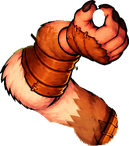
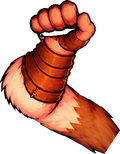
T026 r2: re-import A022 (grips merged, hands under the bracers, item slots behind the fist, bow/pinch re-aimed), tail-root check on the drawn root end, review images; build t026 rat a022 v2

diff --git a/src/data/rigs/rat-raider.js b/src/data/rigs/rat-raider.js
@@ -24,12 +24,12 @@ import { OVERLAYS, VIEWS, MASKS } from './rat-raider-gear.js';
 
 const P = 'assets/art/enemies/rat-raider/rig/';
 const HANDS = {
-  'hand-near-grip': { part: 'hand-near', at: [54.8, 51.6], axis: -45.0 },
-  'hand-near-grip-overhand': { part: 'hand-near', at: [45.6, 54.8], axis: 0.0 },
-  'hand-near-pinch': { part: 'hand-near', at: [45.6, 59.2], axis: -45.0 },
-  'hand-far-grip': { part: 'hand-far', at: [60.0, 52.0], axis: -45.0 },
-  'hand-far-grip-overhand': { part: 'hand-far', at: [51.6, 55.6], axis: 0.0 },
-  'hand-far-shield': { part: 'hand-far', at: [51.6, 60.4], axis: 0.0 },
+  'hand-near-grip': { part: 'hand-near', at: [44.96, 26.14], axis: -16.0 },
+  'hand-near-grip-overhand': { part: 'hand-near', at: [50.6, 39.72], axis: -95.0 },
+  'hand-near-pinch': { part: 'hand-near', at: [51.02, 59.06], axis: -100.0 },
+  'hand-far-grip': { part: 'hand-far', at: [45.42, 47.42], axis: 85.0 },
+  'hand-far-grip-overhand': { part: 'hand-far', at: [48.9, 44.8], axis: -5.0 },
+  'hand-far-shield': { part: 'hand-far', at: [54.02, 47.01], axis: -5.0 },
 };
 const AX = HANDS['hand-near-grip'].axis, SLOT = HANDS['hand-near-grip'].at, RING = HANDS['hand-far-grip'].at;
 const OVER = HANDS['hand-far-grip-overhand'], PINCH = HANDS['hand-near-pinch'].at;
@@ -38,6 +38,10 @@ const EAR = [132, 198];      // full draw: string to the jaw line, under the che
 export const HIDDEN_GEAR = ['gear-jerkin', 'gear-sash', 'gear-quiver'];
 const views = Object.fromEntries(Object.entries(VIEWS).filter(([g]) => !HIDDEN_GEAR.includes(g)));
 const masks = Object.fromEntries(Object.entries(MASKS).filter(([img]) => !img.endsWith('head-neutral.png') && /\/rig\/head[^/]*\.png$|\/gear\/gear-(hood|helmet|captain)/.test(img)));
+// T026 r2: A022 cleaned the back head's islands, so its cut starts 27.6 px further in: its fur mask cropped to match
+// (the A010 viewer rig keeps the original)
+const BACK = P + 'head-back.png';
+masks[BACK] = { ...masks[BACK], fur: 'assets/art/enemies/rat-raider/masks/head-back-a022-fur-mask.png' };
 
 export default {
   id: 'rat-raider',
@@ -47,11 +51,13 @@ export default {
   hands: HANDS,
   heldHand: { 'hand-near': 'hand-near-grip' },
   slots: {
-    'one-hand': { parent: 'hand-near', attach: SLOT, order: 830 },   // T026: no flip: on A018's grip the curved edge already faces back
-    'two-hand': { parent: 'hand-near', attach: SLOT, order: 830 },
-    bow: { parent: 'hand-far', attach: RING, order: 125 },
+    // T026 r2: A022's hands sit under their bracers (815 / 115), so the held item goes just behind the fist (812 / 112)
+    'one-hand': { parent: 'hand-near', attach: SLOT, order: 812 },   // T026: no flip: on the grip the curved edge already faces back
+    'two-hand': { parent: 'hand-near', attach: SLOT, order: 812 },
+    bow: { parent: 'hand-far', attach: RING, order: 112 },
   },
-  axes: { 'one-hand': AX, 'two-hand': AX, bow: HANDS['hand-far-grip'].axis },
+  // T026 r2: A022 measured the far grip's slot pointing down the fist (85); the bow's top limb goes out the other end
+  axes: { 'one-hand': AX, 'two-hand': AX, bow: HANDS['hand-far-grip'].axis - 180 },
   grips: {
     'two-hand': { swap: { 'hand-far': 'hand-far-grip-overhand' }, align: OVER.axis, order: { 'hand-far': 845 }, wrist: 'above',
       ik: { arm: ['arm-far-upper', 'arm-far-lower'], end: 'hand-far', hand: OVER.at, to: 'grip2' } },
@@ -60,28 +66,28 @@ export default {
   },
   // A018's own sockets (rig-source `sockets`; importer compared them with its derived ones: chest 49 and mouth 114
   // canvas px apart, the rest within 9); feet, weapon_tip: render/sockets.js
-  sockets: { hand_near: { part: 'hand-near', at: [54.8, 51.6] }, hand_far: { part: 'hand-far', at: [60.0, 52.0] }, chest: { part: 'torso', at: [122.0, 108.0] }, head_top: { part: 'head', at: [80.0, 0.8] }, mouth: { part: 'head', at: [276.0, 204.0] }, tail_tip: { part: 'tail-3', at: [4.4, 4.0] }, feet: { parts: ['foot-near', 'foot-far'] }, weapon_tip: { item: 'tip' } },
+  sockets: { hand_near: { part: 'hand-near', at: [45.0, 26.1] }, hand_far: { part: 'hand-far', at: [45.4, 47.4] }, chest: { part: 'torso', at: [132.0, 101.6] }, head_top: { part: 'head', at: [80.0, 0.8] }, mouth: { part: 'head', at: [276.0, 204.0] }, tail_tip: { part: 'tail-3', at: [4.4, 4.0] }, feet: { parts: ['foot-near', 'foot-far'] }, weapon_tip: { item: 'tip' } },
   parts: {
-    'pelvis': { img: P + 'pelvis.png', pivot: [123.2, 62.0], order: 400 },
-    'torso': { img: P + 'torso.png', parent: 'pelvis', attach: [124.0, 30.8], pivot: [116.4, 156.8], order: 600, swaps: { 'torso-side': { img: P + 'torso-side.png', offset: [31.6, -1.6] }, 'torso-back': { img: P + 'torso-back.png', offset: [2.0, 11.6] } } },
-    'head': { img: P + 'head.png', parent: 'torso', attach: [158.0, 84.0], pivot: [152.0, 240.0], order: 700, swaps: { 'head-attack': { img: P + 'head-attack.png', offset: [-2.0, 0.0] }, 'head-hurt': { img: P + 'head-hurt.png', offset: [-3.2, 0.0] }, 'head-effort': { img: P + 'head-effort.png', offset: [2.0, 0.4] }, 'head-ko': { img: P + 'head-ko.png', offset: [1.6, 0.0] }, 'head-back': { img: P + 'head-back.png', offset: [0.4, 16.0] } } },
-    'arm-near-upper': { img: P + 'arm-near-upper.png', parent: 'torso', attach: [28.0, 73.6], pivot: [68.4, 52.0], order: 590, swaps: { 'arm-near-cocked': { img: P + 'arm-near-cocked.png', offset: [-27.2, -70.8], hide: ['arm-near-lower', 'hand-near'], grip: [97.2, 20.4], axis: -135.0,
-        carry: { held: [97.2, 20.4] }, turn: { held: -135.0 - AX } }, 'arm-near-raised': { img: P + 'arm-near-raised.png', offset: [31.2, -136.4], hide: ['arm-near-lower', 'hand-near'], grip: [20.4, 32.0], axis: 135.0,
+    'pelvis': { img: P + 'pelvis.png', pivot: [106.0, 62.0], order: 400 },
+    'torso': { img: P + 'torso.png', parent: 'pelvis', attach: [106.8, 30.8], pivot: [126.4, 150.4], order: 600, swaps: { 'torso-side': { img: P + 'torso-side.png', offset: [41.6, -8.0] }, 'torso-back': { img: P + 'torso-back.png', offset: [12.0, 5.2] } } },
+    'head': { img: P + 'head.png', parent: 'torso', attach: [168.0, 77.6], pivot: [152.0, 240.0], order: 700, swaps: { 'head-attack': { img: P + 'head-attack.png', offset: [-2.0, 0.0] }, 'head-hurt': { img: P + 'head-hurt.png', offset: [-3.2, 0.0] }, 'head-effort': { img: P + 'head-effort.png', offset: [2.0, 0.4] }, 'head-ko': { img: P + 'head-ko.png', offset: [1.6, 0.0] }, 'head-back': { img: P + 'head-back.png', offset: [28.0, 16.0] } } },
+    'arm-near-upper': { img: P + 'arm-near-upper.png', parent: 'torso', attach: [38.0, 67.2], pivot: [68.4, 21.6], order: 590, swaps: { 'arm-near-cocked': { img: P + 'arm-near-cocked.png', offset: [-27.2, -110.4], hide: ['arm-near-lower', 'hand-near'], grip: [61.29, 32.36], axis: 175.2,
+        carry: { held: [61.29, 32.36] }, turn: { held: 175.2 - AX } }, 'arm-near-raised': { img: P + 'arm-near-raised.png', offset: [24.0, -145.2], hide: ['arm-near-lower', 'hand-near'], grip: [33.53, 32.12], axis: 144.5,
         carry: { held: [20.4, 32.0] }, turn: { held: 135.0 - AX } } } },
-    'arm-near-lower': { img: P + 'arm-near-lower.png', parent: 'arm-near-upper', attach: [25.2, 106.4], pivot: [74.4, 24.8], order: 820 },
-    'hand-near': { img: P + 'hand-near.png', parent: 'arm-near-lower', attach: [56.0, 76.8], pivot: [38.0, 20.0], order: 840, swaps: { 'hand-near-fist': { img: P + 'hand-near-fist.png', offset: [0.0, 0.0] }, 'hand-near-open': { img: P + 'hand-near-open.png', offset: [-0.4, 0.0] }, 'hand-near-grip': { img: P + 'hand-near-grip.png', offset: [9.6, 0.0] }, 'hand-near-grip-overhand': { img: P + 'hand-near-grip-overhand.png', offset: [10.0, 0.0] }, 'hand-near-pinch': { img: P + 'hand-near-pinch.png', offset: [10.8, 0.0] } } },
-    'arm-far-upper': { img: P + 'arm-far-upper.png', parent: 'torso', attach: [190.0, 75.6], pivot: [39.2, 19.6], order: 110, swaps: { 'arm-far-raised-back': { img: P + 'arm-far-raised-back.png', offset: [-47.6, -76.4], hide: ['arm-far-lower', 'hand-far'], grip: [88.58, 19.62], axis: -115.0 }, 'arm-far-guard': { img: P + 'arm-far-guard.png', offset: [-12.4, -24.0], hide: ['arm-far-lower', 'hand-far'], grip: [31.76, 25.07], axis: -150.0 } } },
-    'arm-far-lower': { img: P + 'arm-far-lower.png', parent: 'arm-far-upper', attach: [70.4, 79.6], pivot: [23.2, 22.8], order: 120 },
-    'hand-far': { img: P + 'hand-far.png', parent: 'arm-far-lower', attach: [50.8, 71.6], pivot: [44.4, 19.6], order: 130, swaps: { 'hand-far-fist': { img: P + 'hand-far-fist.png', offset: [0.0, 0.0] }, 'hand-far-open': { img: P + 'hand-far-open.png', offset: [8.8, 0.0] }, 'hand-far-grip': { img: P + 'hand-far-grip.png', offset: [18.8, 0.0] }, 'hand-far-grip-overhand': { img: P + 'hand-far-grip-overhand.png', offset: [17.6, 0.0] }, 'hand-far-shield': { img: P + 'hand-far-shield.png', offset: [18.4, 0.0] } } },
-    'leg-near-upper': { img: P + 'leg-near-upper.png', parent: 'pelvis', attach: [68.8, 86.0], pivot: [71.2, 32.0], order: 510, swaps: { 'leg-near-kneeling': { img: P + 'leg-near-kneeling.png', offset: [-88.0, 0.0], hide: ['leg-near-lower', 'foot-near'] }, 'leg-near-kneeup': { img: P + 'leg-near-kneeup.png', offset: [38.0, -38.4], hide: ['leg-near-lower', 'foot-near'] } } },
+    'arm-near-lower': { img: P + 'arm-near-lower.png', parent: 'arm-near-upper', attach: [25.2, 76.0], pivot: [41.2, 24.8], order: 820 },
+    'hand-near': { img: P + 'hand-near.png', parent: 'arm-near-lower', attach: [22.8, 76.8], pivot: [38.0, 13.2], order: 815, swaps: { 'hand-near-fist': { img: P + 'hand-near-fist.png', offset: [0.0, 0.0] }, 'hand-near-open': { img: P + 'hand-near-open.png', offset: [11.6, 8.8] }, 'hand-near-grip': { img: P + 'hand-near-grip.png', offset: [11.2, 5.6] }, 'hand-near-grip-overhand': { img: P + 'hand-near-grip-overhand.png', offset: [16.8, 9.2] }, 'hand-near-pinch': { img: P + 'hand-near-pinch.png', offset: [18.0, 6.4] } } },
+    'arm-far-upper': { img: P + 'arm-far-upper.png', parent: 'torso', attach: [200.0, 69.2], pivot: [16.0, 16.4], order: 110, swaps: { 'arm-far-raised-back': { img: P + 'arm-far-raised-back.png', offset: [-70.8, -110.4], hide: ['arm-far-lower', 'hand-far'], grip: [75.74, 24.29], axis: -33.1 }, 'arm-far-guard': { img: P + 'arm-far-guard.png', offset: [-74.4, -4.4], hide: ['arm-far-lower', 'hand-far'], grip: [18.75, 23.8], axis: 145.2 } } },
+    'arm-far-lower': { img: P + 'arm-far-lower.png', parent: 'arm-far-upper', attach: [47.2, 76.4], pivot: [23.2, 22.8], order: 120 },
+    'hand-far': { img: P + 'hand-far.png', parent: 'arm-far-lower', attach: [50.8, 71.6], pivot: [30.0, 13.2], order: 115, swaps: { 'hand-far-fist': { img: P + 'hand-far-fist.png', offset: [0.0, 0.0] }, 'hand-far-open': { img: P + 'hand-far-open.png', offset: [10.8, 8.0] }, 'hand-far-grip': { img: P + 'hand-far-grip.png', offset: [12.4, 4.4] }, 'hand-far-grip-overhand': { img: P + 'hand-far-grip-overhand.png', offset: [14.4, 5.2] }, 'hand-far-shield': { img: P + 'hand-far-shield.png', offset: [12.8, 4.0] } } },
+    'leg-near-upper': { img: P + 'leg-near-upper.png', parent: 'pelvis', attach: [51.6, 86.0], pivot: [71.2, 32.0], order: 510, swaps: { 'leg-near-kneeling': { img: P + 'leg-near-kneeling.png', offset: [-88.0, 0.0], hide: ['leg-near-lower', 'foot-near'] }, 'leg-near-kneeup': { img: P + 'leg-near-kneeup.png', offset: [38.0, -38.4], hide: ['leg-near-lower', 'foot-near'] } } },
     'leg-near-lower': { img: P + 'leg-near-lower.png', parent: 'leg-near-upper', attach: [49.6, 122.0], pivot: [35.6, 23.6], order: 520 },
     'foot-near': { img: P + 'foot-near.png', parent: 'leg-near-lower', attach: [27.2, 66.8], pivot: [31.6, 20.0], order: 530, swaps: { 'foot-near-toe': { img: P + 'foot-near-toe.png', offset: [-5.2, -1.2] } } },
-    'leg-far-upper': { img: P + 'leg-far-upper.png', parent: 'pelvis', attach: [173.2, 86.0], pivot: [47.2, 47.2], order: 210, swaps: { 'leg-far-folded': { img: P + 'leg-far-folded.png', offset: [16.4, 16.0], hide: ['leg-far-lower', 'foot-far'] } } },
-    'leg-far-lower': { img: P + 'leg-far-lower.png', parent: 'leg-far-upper', attach: [54.4, 137.2], pivot: [50.0, 23.6], order: 220 },
-    'foot-far': { img: P + 'foot-far.png', parent: 'leg-far-lower', attach: [50.0, 74.8], pivot: [33.6, 20.4], order: 230, swaps: { 'foot-far-toe': { img: P + 'foot-far-toe.png', offset: [-2.0, -1.2] } } },
-    'tail': { img: P + 'tail.png', parent: 'pelvis', attach: [10.4, 94.0], pivot: [34.4, 14.0], order: 300 },
-    'tail-2': { img: P + 'tail-2.png', parent: 'tail', attach: [14.4, 81.2], pivot: [58.8, 16.0], order: 310 },
+    'leg-far-upper': { img: P + 'leg-far-upper.png', parent: 'pelvis', attach: [156.0, 86.0], pivot: [47.2, 47.2], order: 210, swaps: { 'leg-far-folded': { img: P + 'leg-far-folded.png', offset: [16.4, 16.0], hide: ['leg-far-lower', 'foot-far'] } } },
+    'leg-far-lower': { img: P + 'leg-far-lower.png', parent: 'leg-far-upper', attach: [54.4, 137.2], pivot: [31.2, 23.6], order: 220 },
+    'foot-far': { img: P + 'foot-far.png', parent: 'leg-far-lower', attach: [31.2, 74.8], pivot: [33.6, 20.4], order: 230, swaps: { 'foot-far-toe': { img: P + 'foot-far-toe.png', offset: [-2.0, -1.2] } } },
+    'tail': { img: P + 'tail.png', parent: 'pelvis', attach: [-6.8, 94.0], pivot: [34.4, 30.8], order: 300 },
+    'tail-2': { img: P + 'tail-2.png', parent: 'tail', attach: [14.4, 98.0], pivot: [58.8, 16.0], order: 310 },
     'tail-3': { img: P + 'tail-3.png', parent: 'tail-2', attach: [22.0, 66.8], pivot: [48.0, 41.2], order: 320 },
-    'scarf-tail': { img: P + 'scarf-tail.png', parent: 'torso', attach: [10.0, 16.0], pivot: [96.0, 23.6], order: 330 },
+    'scarf-tail': { img: P + 'scarf-tail.png', parent: 'torso', attach: [20.0, 9.6], pivot: [96.0, 23.6], order: 330 },
   },
 };

diff --git a/tools/bench/stretch-known.js b/tools/bench/stretch-known.js
@@ -6,20 +6,38 @@ const KNEE_CAP = 'patch cap / rounded end on the lower leg across the knee';
 const SHOULDER = 'round the top of arm-near-upper (A013 cut it straight: the torso hides it at rest, but every pose that draws the arm over the tunic shows the cut)';
 const TURNED = 'hand-<side>-grip-overhand drawing (T025: the grip fist turned over on the weapon node opens the wrist; the overhand hand has its own cuff)';
 const FAR_WRIST = 'as the current grip: rounded wrist end on hand-far-grip (the far fist turned hard round the shaft)';
-const RAT_WRIST = 'A018 grip / pinch hands (repainted from the fist) start ~24 source px past the fist\'s wrist line: extend their wrist end under the forearm cuff to the wrist pivot, as hand-near-fist does';
-const TAIL_ROOT = 'A022: tail-1 root tucked under the trouser seat on pelvis (its root sits ~27 px of stored art outside the pelvis drawing; only the near thigh hides it at rest, so it opens in the walk)';
+const RAT_SHOULDER = 'A022 near upper arm (band 590): its hidden end under the vest is short; with the arm swung forward for a held item a crack opens at the shoulder core (check in motion; fix: longer plain-fur end under the torso)';
+const RAT_UP = 'expected: a straight-up near arm under the vest needs arm-near-raised (cast uses it)';
+const RAT_FAR_WRIST = 'A022 far hands (band 115, wrist under the bracer): the hidden wrist end is short; turned or lifted over the shaft (845) the wrist core opens (fix: longer wrist end under the far bracer)';
 const HIP_FAR = 'rounded top on leg-far-upper under the pelvis (opens when the far thigh folds forward: kneel, lying)';
 export const KNOWN = {
-  // T026: the rat rebuilt on A018 + A019 (every A010 rat flag cleared, incl. lying shoulder / far hip and arms up; r2: the
-  // stance wrist flags went with the taller stance)
-  'rat | hand-near-grip | arm-near-lower / hand-near': [6.0, RAT_WRIST],
-  'rat | hand-near-pinch | arm-near-lower / hand-near': [6.0, RAT_WRIST],
-  'rat | Rat Raider: rat-cutlass (current grip) | arm-near-lower / hand-near': [6.0, RAT_WRIST],
-  'rat | Rat Raider: rat-cutlass (underhand) | arm-near-lower / hand-near': [6.0, RAT_WRIST],
-  // T026 r2: the tail-root cells (the user's butt / tail gap in the walk)
-  'rat | tail root, walk 0 | pelvis / tail': [6.3, TAIL_ROOT],
-  'rat | tail root, walk 0.25 | pelvis / tail': [2.5, TAIL_ROOT],
-  'rat | tail root, walk 0.75 | pelvis / tail': [4.3, TAIL_ROOT],
+  // T026: the rat rebuilt on A018 + A019 + A022 (every A010 rat flag cleared; A022's hands cleared the near wrist flags)
+  // T026 r2 + A022 (round 2 re-import)
+  'rat | arms straight up | torso / arm-near-upper': [6.8, RAT_UP],
+  'rat | torso-back | arm-far-lower / hand-far': [5.3, RAT_FAR_WRIST],
+  'rat | hand-near-grip-overhand | arm-near-lower / hand-near': [2.3, RAT_FAR_WRIST],
+  'rat | hand-far-grip | arm-far-lower / hand-far': [3.0, RAT_FAR_WRIST],
+  'rat | hand-far-grip-overhand | arm-far-lower / hand-far': [3.0, RAT_FAR_WRIST],
+  'rat | hand-far-shield | arm-far-lower / hand-far': [2.8, RAT_FAR_WRIST],
+  'rat | Rat Spearman: rat-spear (current grip) | torso / arm-near-upper': [3.5, RAT_SHOULDER],
+  'rat | Rat Spearman: rat-spear (current grip) | arm-far-lower / hand-far': [10.5, RAT_FAR_WRIST],
+  'rat | Rat Archer: rat-bow (current grip) | torso / arm-near-upper': [2.8, RAT_SHOULDER],
+  'rat | Rat Raider: rat-cutlass (overhand) | torso / arm-near-upper': [2.5, RAT_SHOULDER],
+  'rat | Rat Spearman: rat-spear (overhand) | torso / arm-near-upper': [3.5, RAT_SHOULDER],
+  'rat | Rat Spearman: rat-spear (overhand) | arm-far-lower / hand-far': [10.5, RAT_FAR_WRIST],
+  'rat | Rat Archer: rat-bow (overhand) | arm-far-lower / hand-far': [3.3, RAT_FAR_WRIST],
+  'rat | Rat Archer: rat-bow (overhand) | torso / arm-near-upper': [2.8, RAT_SHOULDER],
+  'rat | Rat Spearman: rat-spear (underhand) | torso / arm-near-upper': [4.8, RAT_SHOULDER],
+  'rat | Rat Spearman: rat-spear (underhand) | arm-far-lower / hand-far': [8.8, RAT_FAR_WRIST],
+  'rat | Rat Archer: rat-bow (underhand) | torso / arm-near-upper': [2.8, RAT_SHOULDER],
+  'rat | Rat Spearman: rat-spear (reverse) | torso / arm-near-upper': [5.0, RAT_SHOULDER],
+  'rat | Rat Spearman: rat-spear (reverse) | arm-far-lower / hand-far': [8.8, RAT_FAR_WRIST],
+  'rat | Rat Archer: rat-bow (reverse) | torso / arm-near-upper': [2.8, RAT_SHOULDER],
+  'rat | crouch: jump squat (floor) | arm-far-lower / hand-far': [3.0, RAT_FAR_WRIST],
+  'rat | lying (floor) | torso / arm-near-upper': [7.0, RAT_SHOULDER],
+  'rat | lying (floor) | arm-near-lower / hand-near': [7.0, RAT_FAR_WRIST],
+  'rat | 1.04x (floor) | arm-far-lower / hand-far': [2.1, RAT_FAR_WRIST],
+  'rat | 1.4x (floor) | arm-far-lower / hand-far': [2.8, RAT_FAR_WRIST],
   'rat | 1.4x (floor) | leg-near-lower / foot-near': [2.1, 'only at the 1.4x size step (variety is +-4%): a touch more overlap at the near ankle, low priority'],
   'mouse | near knee 90 | leg-near-upper / leg-near-lower': [6.0, KNEE_CAP],
   'mouse | near knee 150 | leg-near-upper / leg-near-lower': [3.3, KNEE_CAP],

diff --git a/src/data/rigs/rat-archer.js b/src/data/rigs/rat-archer.js
@@ -1,14 +1,16 @@
 // Rat Archer rig (T026): the A018 rat holding the bow kit (items/rat-bow.js): bow upright in the far grip fist, held out
 // in front; the near (pinch) hand rests by the string, draws it to his jaw over the windup (IK + string,
-// render/rig-grip.js) and lets go on the shot. Far fist turned -45 so A018's slot axis (-45) stands the bow straight up.
+// render/rig-grip.js) and lets go on the shot. Far fist turned 5 so A022's slot axis (-95, bow end) stands the bow up.
 // A019's raised-back far arm (fist at the jaw) is not used: with the bow out in front the near arm can't reach past
 // that fist (near shoulder + arm ends ~5 px behind it), so the string arm stays the near one (report T026).
 import rat from './rat-raider.js';
 import base, { P, CROUCH } from './rat-raider-poses.js';
 
-const BOW = (off, extra = {}) => ({ shield: { off, turn: -45 }, ...extra });
-const DRAW = { 'hand-near.order': 845 };   // the string hand in front of the body (the upper arm keeps its band under the vest, T026 r2)
-const { swap: _s, ...STANCE } = P({ ...CROUCH, torso: 4, head: -6, hand: { off: [10, 16], dir: -60 }, ...BOW([24, 2]) });
+const BOW = (off, extra = {}) => ({ shield: { off, turn: 5 }, ...extra });   // T026 r2: A022's far grip slot at -95: the bow upright with the fist turned 5
+// T026 r2: hand dirs are measured on the side-grip slot (A022: -16, was -45) and A022's pinch is drawn turned 55 deg: every
+// dir here +84 from round 1 keeps the pinch drawing at its old screen angle (the pinch then reaches the string mid-draw)
+const DRAW = { 'hand-near.order': 818 };   // the string hand over string (805) and arrow (810), still under its bracer (820; T026 r2)
+const { swap: _s, ...STANCE } = P({ ...CROUCH, torso: 4, head: -6, hand: { off: [10, 16], dir: 24 }, ...BOW([24, 2]) });
 const keep = (S, ...ks) => Object.fromEntries(ks.map((k) => [k, S[k]]));
 const ARMS = ['arm-near-upper', 'arm-near-lower', 'hand-near', 'arm-far-upper', 'arm-far-lower', 'hand-far'];
 export default {
@@ -18,11 +20,11 @@ export default {
     stance: STANCE,
     idle: { ...base.idle, torso: [4, 1.5, 0], head: [-6, 2, 0.15], ...keep(STANCE, ...ARMS) },   // bow arm held steady
     walk: { ...base.walk, swap: {}, ...keep(STANCE, ...ARMS), 'arm-far-upper': [STANCE['arm-far-upper'], 4, 0] },
-    hurt: { ...base.hurt, ...keep(P({ ...CROUCH, torso: -14, head: -14, hand: { off: [-6, 18], dir: -120 }, ...BOW([18, 10]) }), ...ARMS) },
+    hurt: { ...base.hurt, ...keep(P({ ...CROUCH, torso: -14, head: -14, hand: { off: [-6, 18], dir: -36 }, ...BOW([18, 10]) }), ...ARMS) },
     moves: {
       bowShot: {   // windup = the draw (string to the jaw), bow arm locked out; strike = the loose, string hand flicks back
-        windup: { ...P({ ...CROUCH, swap: { head: 'head-effort' }, torso: 0, head: -2, dx: -2, hand: { off: [14, -4], dir: 60 }, ...BOW([32, -6]) }), ...DRAW },
-        strike: { ...P({ ...CROUCH, swap: { head: 'head-attack', 'hand-near': 'hand-near-open' }, torso: 0, head: -4, dx: 1, hand: { off: [-4, -6], dir: -90 }, ...BOW([32, -6]) }), ...DRAW },
+        windup: { ...P({ ...CROUCH, swap: { head: 'head-effort' }, torso: 0, head: -2, dx: -2, hand: { off: [14, -4], dir: 144 }, ...BOW([33, -6]) }), ...DRAW },
+        strike: { ...P({ ...CROUCH, swap: { head: 'head-attack', 'hand-near': 'hand-near-open' }, torso: 0, head: -4, dx: 1, hand: { off: [-4, -6], dir: -6 }, ...BOW([33, -6]) }), ...DRAW },
       },
     },
   },

diff --git a/tools/bench/tail-root.js b/tools/bench/tail-root.js
@@ -1,0 +1,30 @@
+// Tail-root check (T026 round 2, split out of stretch.js): the walk's butt / tail gap. The tail root's end (its drawn
+// pixels farthest out past the pivot, away from tail-2 or, one-piece, from its tip) must tuck under the body drawn in
+// front of it (rig standard 5.3: overlaps hide under the neighbour); most of it in sight is a flag. Pure.
+// covers(entry, screenPoint) and alphaOf(img) are the stretch test's.
+const apply = (m, [x, y]) => [m[0] * x + m[2] * y + m[4], m[1] * x + m[3] * y + m[5]];
+const BODY = /^(pelvis|torso|leg-|foot-)/, ROOT_PX = 1.5;   // ROOT_PX: depth of the tail root's end band (screen px)
+// how far point P is from the nearest pixel of the entries (rings of 0.25 px out to 16; 16 if none)
+function offBody(covers, list, P) {
+  if (list.some((e) => covers(e, P))) return 0;
+  for (let R = 0.25; R <= 16; R += 0.25) for (let a = 0; a < 48; a++) if (list.some((e) => covers(e, [P[0] + R * Math.cos(a * Math.PI / 24), P[1] + R * Math.sin(a * Math.PI / 24)]))) return R;
+  return 16;
+}
+
+export function tailRootFlags(rig, drawn, e, cell, covers, alphaOf) {
+  const out = [];
+  const A = alphaOf(e.img), front = drawn.filter((o) => o.order > e.order && BODY.test(o.name));
+  const P = apply(e.base, rig.parts.tail.pivot), kid = Object.keys(rig.parts).find((c) => rig.parts[c].parent === 'tail');
+  const all = [];
+  for (let y = 0; y < A.h; y += 2) for (let x = 0; x < A.w; x += 2) if (A.alpha[y * A.w + x] > 127) all.push(apply(e.m, [x + 0.5, y + 0.5]));
+  const far = (Q) => Math.hypot(Q[0] - P[0], Q[1] - P[1]);   // a one-piece tail (the mouse): away = toward its tip
+  const C = kid ? apply(e.base, rig.parts[kid].attach) : all.reduce((a, b) => (far(b) > far(a) ? b : a)), n = Math.hypot(P[0] - C[0], P[1] - C[1]) || 1, u = [(P[0] - C[0]) / n, (P[1] - C[1]) / n];
+  const px = all.map((Q) => [Q, (Q[0] - C[0]) * u[0] + (Q[1] - C[1]) * u[1]]);
+  const top = Math.max(...px.map(([, d]) => d)), end = px.filter(([, d]) => d > top - ROOT_PX).map(([Q]) => Q);
+  const shows = end.filter((Q) => !front.some((o) => covers(o, Q)));
+  if (shows.length > end.length / 2) {   // the cut end in sight (rig standard 5.3: overlaps hide under the neighbour)
+    const gap = Math.min(...shows.map((Q) => offBody(covers, front, Q))) * cell.k;
+    out.push({ text: `tail root end shows (${Math.round(100 * shows.length / end.length)}%, ${gap.toFixed(1)} px off the body)`, at: apply(cell.view, P) });
+  }
+  return out;
+}

diff --git a/tools/bench/stretch.js b/tools/bench/stretch.js
@@ -16,6 +16,7 @@ import { floorLine } from '../../src/data/rigs/biped-floor.js';
 import { LOOKS } from '../../src/data/looks.js';
 import { GRIP_MODE_NAMES } from '../../src/data/grip-modes.js';
 import { holdFlags } from './hold.js';
+import { tailRootFlags } from './tail-root.js';
 
 const D = Math.PI / 180;
 const ang = (v) => Math.atan2(v[1], v[0]) / D;
@@ -114,13 +115,6 @@ const covers = (alphaOf, e, P) => {
   const [u, v] = apply(e.inv ??= inv(e.m), P), x = Math.floor(u), y = Math.floor(v);
   return x >= 0 && y >= 0 && x < A.w && y < A.h && A.alpha[y * A.w + x] > 127;
 };
-// T026 r2: how far point P is from the nearest pixel of the entries (rings of 0.25 px out to 16; 16 if none)
-const BODY = /^(pelvis|torso|leg-|foot-)/;
-function offBody(alphaOf, list, P) {
-  if (list.some((e) => covers(alphaOf, e, P))) return 0;
-  for (let R = 0.25; R <= 16; R += 0.25) for (let a = 0; a < 48; a++) if (list.some((e) => covers(alphaOf, e, [P[0] + R * Math.cos(a * Math.PI / 24), P[1] + R * Math.sin(a * Math.PI / 24)]))) return R;
-  return 16;
-}
 // Largest radius (step 0.25, up to 8 px) round J that the entries fill completely.
 function core(alphaOf, list, J) {
   let r = 0;
@@ -193,13 +187,7 @@ export function flagsOf(cell, alphaOf) {
     for (const e of drawn) if (/^(pelvis|torso|head|leg-|foot-)/.test(e.name)) lo = Math.max(lo, lowest(e));
     if (Math.abs(lo) > 0.75) flags.push(`lying body ${lo > 0 ? 'under' : 'over'} the floor by ${Math.abs(lo).toFixed(1)} px`);
   }
-  if (cell.tailRoot && by.tail) {   // T026 r2: the tail's root end shows (nothing in front covers it) and stands off the body
-    const e = by.tail, P = apply(e.base, rig.parts.tail.pivot), front = drawn.filter((o) => o.order > e.order && BODY.test(o.name));
-    if (!front.some((o) => covers(alphaOf, o, P))) {
-      const gap = offBody(alphaOf, drawn.filter((o) => BODY.test(o.name)), P) * cell.k;
-      if (gap > SEAM_PX) { flags.push(`seam ${rig.parts.tail.parent} / tail: ${gap.toFixed(1)} px`); marks.push(apply(cell.view, P)); }
-    }
-  }
+  if (cell.tailRoot && by.tail) for (const t of tailRootFlags(rig, drawn, by.tail, cell, (e, P) => covers(alphaOf, e, P), alphaOf)) { flags.push(t.text); marks.push(t.at); }
   if (cell.twoHand && by['hand-far']) {   // share of the far hand's pixels nothing drawn later covers
     const e = by['hand-far'], A = alphaOf(e.img), later = drawn.slice(drawn.indexOf(e) + 1);
     let n = 0, seen = 0;

diff --git a/src/data/rigs/rat-spearman.js b/src/data/rigs/rat-spearman.js
@@ -21,7 +21,7 @@ export default {
       'arm-far-upper': [STANCE['arm-far-upper'], 3, 0.1], 'arm-far-lower': STANCE['arm-far-lower'], 'hand-far': STANCE['hand-far'] },
     walk: { ...base.walk, ...SPEAR(-4, -44, -8), swap: {}, 'arm-near-upper': STANCE['arm-near-upper'], 'arm-near-lower': STANCE['arm-near-lower'], 'hand-near': STANCE['hand-near'],
       'arm-far-upper': STANCE['arm-far-upper'], 'arm-far-lower': STANCE['arm-far-lower'], 'hand-far': STANCE['hand-far'] },
-    hurt: { ...base.hurt, ...SPEAR(-10, -46, 14) },   // spear jolted point-down, both fists keep the shaft
+    hurt: { ...base.hurt, ...SPEAR(-8, -46, 10) },   // spear jolted point-down, both fists keep the shaft (T026 r2: 10, was 14: A022's front fist reaches it)
     moves: {
       spearThrust: {   // draws the spear back along his side (long telegraph), then drives it straight out at the enemy
         windup: { ...P({ ...CROUCH, ...GRIP, swap: { head: 'head-effort' }, dx: -4, torso: 2, head: -6, shield: { off: [14, 12] },

diff --git a/src/config.js b/src/config.js
@@ -3,4 +3,4 @@ export const VIEW = { w: 960, h: 540 };   // internal resolution; CSS scales to 
 export const FPS = 60;                    // sim runs at a fixed 60 steps/sec; all timings are in frames
 export const START_STAGE = 'harbor-run';   // ?stage=harbor-market in the URL loads the single-screen arena
 export const START_HERO = 'mouse-fighter';
-export const BUILD = 't026 rat import r2';
+export const BUILD = 't026 rat a022 v2';

diff --git a/tools/rig_from_source.py b/tools/rig_from_source.py
@@ -126,7 +126,7 @@ def main():
     ap.add_argument("--out")
     ap.add_argument("--height", type=float, default=136, help="screen px tall in game")
     ap.add_argument("--scale", type=float, default=0.4, help="canvas px -> stored image px")
-    ap.add_argument("--merge", action="append", default=[], help="T026: a rig-source fragment (A019) laid over the source: its parts replace, its swaps add; images resolve in the fragment's folder")
+    ap.add_argument("--merge", action="append", default=[], help="T026: a rig-source fragment (A019, A022) laid over the source: its parts replace, its swaps and grips add; images resolve in the fragment's folder")
     ap.add_argument("--keep-islands", default="", help="T026 r2: comma-separated part/swap names whose detached pieces are kept")
     ap.add_argument("--sockets", action="store_true", help="only print the sockets block (T024; images not written)")
     a = ap.parse_args()
@@ -136,7 +136,11 @@ def main():
         own = lambda d: {k: {**v, "img": os.path.join(fdir, v["img"])} for k, v in (d or {}).items()}
         raw["parts"] = {**raw["parts"], **{k: {**raw["parts"].get(k, {}), **v} for k, v in own(F.get("parts")).items()}}
         raw["swaps"] = {**raw.get("swaps", {}), **own(F.get("swaps"))}
-        print(f"merged {frag}: parts {sorted((F.get('parts') or {}))}, swaps {sorted((F.get('swaps') or {}))}")
+        if F.get("grips"):   # T026 r2 (A022): a fragment's grips win; a hand socket the base pinned on its old grip goes too
+            raw["grips"] = {**raw.get("grips", {}), **F["grips"]}
+            for side in {near_far(g["of"])[5:] for g in F["grips"].values()}:
+                (raw.get("sockets") or {}).pop(f"hand_{side}", None)
+        print(f"merged {frag}: parts {sorted((F.get('parts') or {}))}, swaps {sorted((F.get('swaps') or {}))}", file=sys.stderr)
     src = renamed(raw)
     folder = src.get("dir") or os.path.dirname(a.source)
     s = a.scale

diff --git a/docs/MODULES.md b/docs/MODULES.md
@@ -194,13 +194,14 @@ Run log fields (one object per run; slot 0's hero in these fields, and T021 `her
 | `tools/bench/draw.js` | Browser: `drawFigure` (strip pose; ground/legs kept off the floor by sampled pixels), `drawStandee`, `renderStrip` (export image) |
 | `tools/fixtures/mouse-fighter.rig-source.json` | T023: the Mouse Fighter in game = A013's rig-source.json (dir -> Art's folder), for `?fixture=mouse-fighter` and tests |
 | `tools/fixtures/mouse-fighter-a002.rig-source.json` | The old A002 mouse as a rig-source.json (no pelvis/hands/feet): bench tests of missing standard parts |
-| `tools/rig_from_source.py` | Draft importer: rig-source.json -> keyed, trimmed images (`--art`, `--scale`) + draft `src/data/rigs/<id>.js` (`--id --out --height`); T023: whole-arm swaps keep `hide`, `grip` (itemGrip) and `axis` (slotDirection); source `grips` -> `hands` T026: `--merge <fragment>` (A019: its parts replace, its swaps add, images from the fragment's folder); a source's own `sockets` win over derived ones (differences printed); `tail-1` -> `tail` and tail_tip on the last segment. T026 r2: every cut loses its detached islands (tools/islands.py; trim box kept, so points hold), each listed; `--keep-islands <names>` for parts drawn in pieces (whiskers). |
+| `tools/rig_from_source.py` | Draft importer: rig-source.json -> keyed, trimmed images (`--art`, `--scale`) + draft `src/data/rigs/<id>.js` (`--id --out --height`); T023: whole-arm swaps keep `hide`, `grip` (itemGrip) and `axis` (slotDirection); source `grips` -> `hands` T026: `--merge <fragment>` (A019, A022: its parts replace, its swaps and grips add (T026 r2: a fragment's grips drop the base's hand sockets), images from the fragment's folder); a source's own `sockets` win over derived ones (differences printed); `tail-1` -> `tail` and tail_tip on the last segment. T026 r2: every cut loses its detached islands (tools/islands.py; trim box kept, so points hold), each listed; `--keep-islands <names>` for parts drawn in pieces (whiskers). |
 | `tools/split_pieces.py` | T023: splits a keyed part image into its separate painted pieces (same size each, so points stay valid): the mouse's scarf-tail knot + tail |
 | `tests/rig-bench.test.mjs` | T016: old A002 mouse fixture reads, builds; every joint on the master's point and its parent's joint at rest and in every strip frame; biped-poses names only standard parts; missing parts skipped, children keep the standard angle; importer output joins up (needs python3 + Pillow, says so when absent, e.g. CI); T023: A013 fixture on the standard, joined at rest; importer keeps the whole-arm fields and grip hands exactly as the game rig has them |
 | `tools/rig-preview.html` | Rig pose sheet for fitting and screenshots: `/tools/rig-preview.html?cells=standee,idle,slash3:windup,cast&zoom=3` (states, named poses, `move:windup/strike/<frame>`, `walk:<0..1>`; `dots` shows pivots, `fx` draws move swooshes; `held=<item>` puts a floor weapon in the hand and allows its kit moves as cells) |
 | `tools/rig-hulls.mjs` | T024: writes `src/data/rigs/hulls.js` from the images the rigs name (`hullOf`, `imagesOf`) T026: also the A010 rats' drawings (rigs/a010/). |
 | `tools/bench/png.mjs` | T024, Node: minimal PNG reader (`readAlpha`, `readRGBA`) for headless pixel checks; T026 r2: `encodePng(w, h, rgba)` |
-| `tools/bench/stretch.js` T025: each held item also in every other grip mode (cells `<item> (<mode>)`, forced via gripLayout), with the hold flags (`hold: ...`). | T024 stretch test (G2), pure: `stretchCells(family, items)` (joints at 90/150, arms up, torso views, every hand/foot/whole-limb drawing, each held item at the current grip, floor cells: stance, crouches, lying, 0.96/1.04/1.4x), `flagsOf(cell, alphaOf)` (seam crack > 2 px on a bend's outer side, foot off its floor line, lying off the floor, hidden far hand on a two-hander; `cell.marks`), `drawList`, `floorLines`. T026 r2: tail-root cells (tail +-10, pelvis +-10 under still legs, walk quarter keys; `tailRoot`: only the tail root measured: uncovered and off the body > 2 px = `seam pelvis / tail`) |
+| `tools/bench/stretch.js` T025: each held item also in every other grip mode (cells `<item> (<mode>)`, forced via gripLayout), with the hold flags (`hold: ...`). | T024 stretch test (G2), pure: `stretchCells(family, items)` (joints at 90/150, arms up, torso views, every hand/foot/whole-limb drawing, each held item at the current grip, floor cells: stance, crouches, lying, 0.96/1.04/1.4x), `flagsOf(cell, alphaOf)` (seam crack > 2 px on a bend's outer side, foot off its floor line, lying off the floor, hidden far hand on a two-hander; `cell.marks`), `drawList`, `floorLines`. T026 r2: tail-root cells (tail +-10, pelvis +-10 under still legs, walk quarter keys; `tailRoot`: only the tail root measured, tools/bench/tail-root.js) |
+| `tools/bench/tail-root.js` | T026 r2: `tailRootFlags`: the tail root's end (past the pivot, away from tail-2 / the tip) must tuck under the body drawn in front; most of it in sight = `tail root end shows` (fails the stretch test) |
 | `tools/bench/stretch-known.js` | T024: known stretch flags, each with the art fix it needs (the test fails on any other, or one >1 px worse) |
 | `tools/bench/families.js` | T024: the bodies the stretch test runs on (`mouse`, `rat` = raider + spearman + archer) and their floor weapons; `bodyOf(rigId)` |
 | `tools/bench/paint.js` | T026 r2 paint check (rig standard 8, G2), pure: `paintCheck(body, readRGBA)`: the rest layout from the game cuts on a grid at the cut scale vs the keyed master, inside its eroded silhouette: per-pixel mean RGB difference, `mean p95 strongShare`, `region` (largest solid strong blob, game px^2), `diff render master` buffers. Body options `exclude` (master drawings that aren't body), `skipParts`, `shift` (source `foot_translations`) |

diff --git a/docs/assets.md b/docs/assets.md
@@ -24,4 +24,4 @@
 | A018 | Rat Raider base parts (near/far), rounded joint ends, hand swaps (fist, open, grip, grip-overhand, pinch, shield), torso side/back, carried heads; rig-source with grips and sockets | game-ready (T026, 2026-10-17: imported with A019 at 136 px, scale 0.25185, no fudge; stretch strip: only the near grip/pinch wrist, 3-6 px, art fix listed) | Art | `assets/source/A018-rat-parts/` (LFS): 19 parts, 17 swaps, reference, rig-source, review, prompts and HANDOFF. Fit 0.847% uncovered / 1.250% outside; six heads pixel-exact; both soles y1950. Hidden-overlap texture carryover, torso repaint, overhand shaft occlusion and unverified motion seams documented |
 | A019 | Rat Raider whole-limb key drawings (cocked, raised near arms; raised-back, guard far arms; kneeling, knee-up near legs; folded far leg) + toe-off feet + two cut fixes | game-ready (T026, 2026-10-17: all nine wired; lying shoulder / far hip and arms-up flags cleared; raised-back far arm not used by the archer, see T026 report) | Art | `assets/source/A019-rat-key-drawings/` (LFS): 9 pose/foot drawings, 2 replacements, rig-source fragment, review, prompts and HANDOFF; phone JPGs in `docs/screens/A019/`. Native A018 pivots; local bend repairs. Shoulder/hip clearance, far-arm occlusion and toe-off floor contact await import |
 | A021 | Weapon items for the flexibility test: dagger, round shield, hand axe, staff (held = floor art; measured grip points) | source; look approved by the user 2026-10-17 ("the weapon designs are good"); wired as items in the flexibility test | Art | `assets/source/A021-weapon-items/` (LFS): four PNGs, measured `weapons.json`, source-point and held/floor review, exact prompts and HANDOFF. Phone JPGs in `docs/screens/A021/`. 40/48/60/150 px sizes; staff grips 39.84 px apart. Static A018 fit only; runtime import and human look pending. |
-| A022 | Rat Raider joint repair: shoulders under the vest edge, all hands redone side-on from A017's fists (slot, not hole; wrist under the bracer), tail root under the trousers, islands removed | source (merged 2026-10-17); lead: no holes/discs, rest paint diff 3.08% interior (0.63% above the feet); import + motion review in T026 round 2 | Art | `assets/source/A022-rat-joint-repair/` (LFS): 25 replacement cuts (one component each), rig-source fragment (grips, near upper band 590, hands 815/115), rest-diff, reviews, prompts, HANDOFF; phone JPGs in `docs/screens/A022/`. Watch in motion: shoulder ends past ~90 degrees, tail-1/tail-2 step |
+| A022 | Rat Raider joint repair: shoulders under the vest edge, all hands redone side-on from A017's fists (slot, not hole; wrist under the bracer), tail root under the trousers, islands removed | game-ready (T026 round 2, 2026-10-17: merged after A018 + A019 with its grips and bands; paint check 0.39% strong, largest blob 5 game px^2 (A010 0.92% / 11); no islands; tail root tucked in the walk; stretch: short hidden ends at the far wrists (up to 10.5 px on the spear's front fist) and the near shoulder with held items (2.5-5 px), listed; human motion review pending) | Art | `assets/source/A022-rat-joint-repair/` (LFS): 25 replacement cuts (one component each), rig-source fragment (grips, near upper band 590, hands 815/115), rest-diff, reviews, prompts, HANDOFF; phone JPGs in `docs/screens/A022/`. Watch in motion: shoulder ends past ~90 degrees, tail-1/tail-2 step |

diff --git a/docs/STATUS.md b/docs/STATUS.md
@@ -44,6 +44,7 @@
 - **Other:** Play.command serves whatever already listens on 8100 without checking the folder (T024 note); pose swaps as fallback; art-bible items as rewards; lab boot code duplicates `src/main.js`; harbor stone backfill (brief clean ground edges); gamepad block untested.
 
 ## Last session
+2026-10-17 code: T026 round 2 item 6: A022 re-imported (importer merges a fragment's grips; hands 815/115 under the bracers, held items behind the fist 812/112; bow slot taken from the other end of A022's far grip; archer hand dirs +84 for A022's pinch; spearman spear 2 px nearer, hurt tilt 10). Paint 0.39% / 5 px^2; tail root tucked (check now fails on an exposed root end); stretch: new far-wrist and held-arm shoulder seams listed as A022 follow-ups. 31/31 tests. Build `t026 rat a022 v2`. Viewer links: docs/screens/T026/views.json (unchanged views). Awaiting the user's look.
 2026-10-17 code: T026 round 2 items 1-5 on `t026-import-new-rat`: near upper arm (and its whole-arm keys) at band 590 under the vest (archer's draw keeps it there, string hand in front); importer drops detached islands (19 cuts cleaned, trim boxes kept); paint check `tests/paint.test.mjs` (rest vs master colour for colour; limit from A010: 0.92% strong, solid region 11 game px^2; new rat 0.41% / 5: passes at rest, its defects are in swaps and turned joints; maps in docs/screens/T026/paint-*.jpg); crouch raised to 134.4 px (was 129.9; A010 137.8); tail-root stretch cells flag the walk gap (6.3 px, known for A022). 31/31 tests. Build `t026 rat import r2`.
 2026-10-17 lead: merged A022 (rat joint repair: 25 cuts, one piece each; hands slotted, no holes or discs; near shoulder band 590, hands 815/115 under the bracers; tail root under the seat; rest paint diff 3.08% interior, 0.63% above the feet). Watch in motion: shoulder ends past ~90 degrees, the tail-1/tail-2 step. Code: T026 round 2 item 6.
 2026-10-17 lead: merged A021 (user: "yes the weapon designs are good"): dagger, buckler, hand axe, staff, measured grip points; wired in the rat flexibility test.
